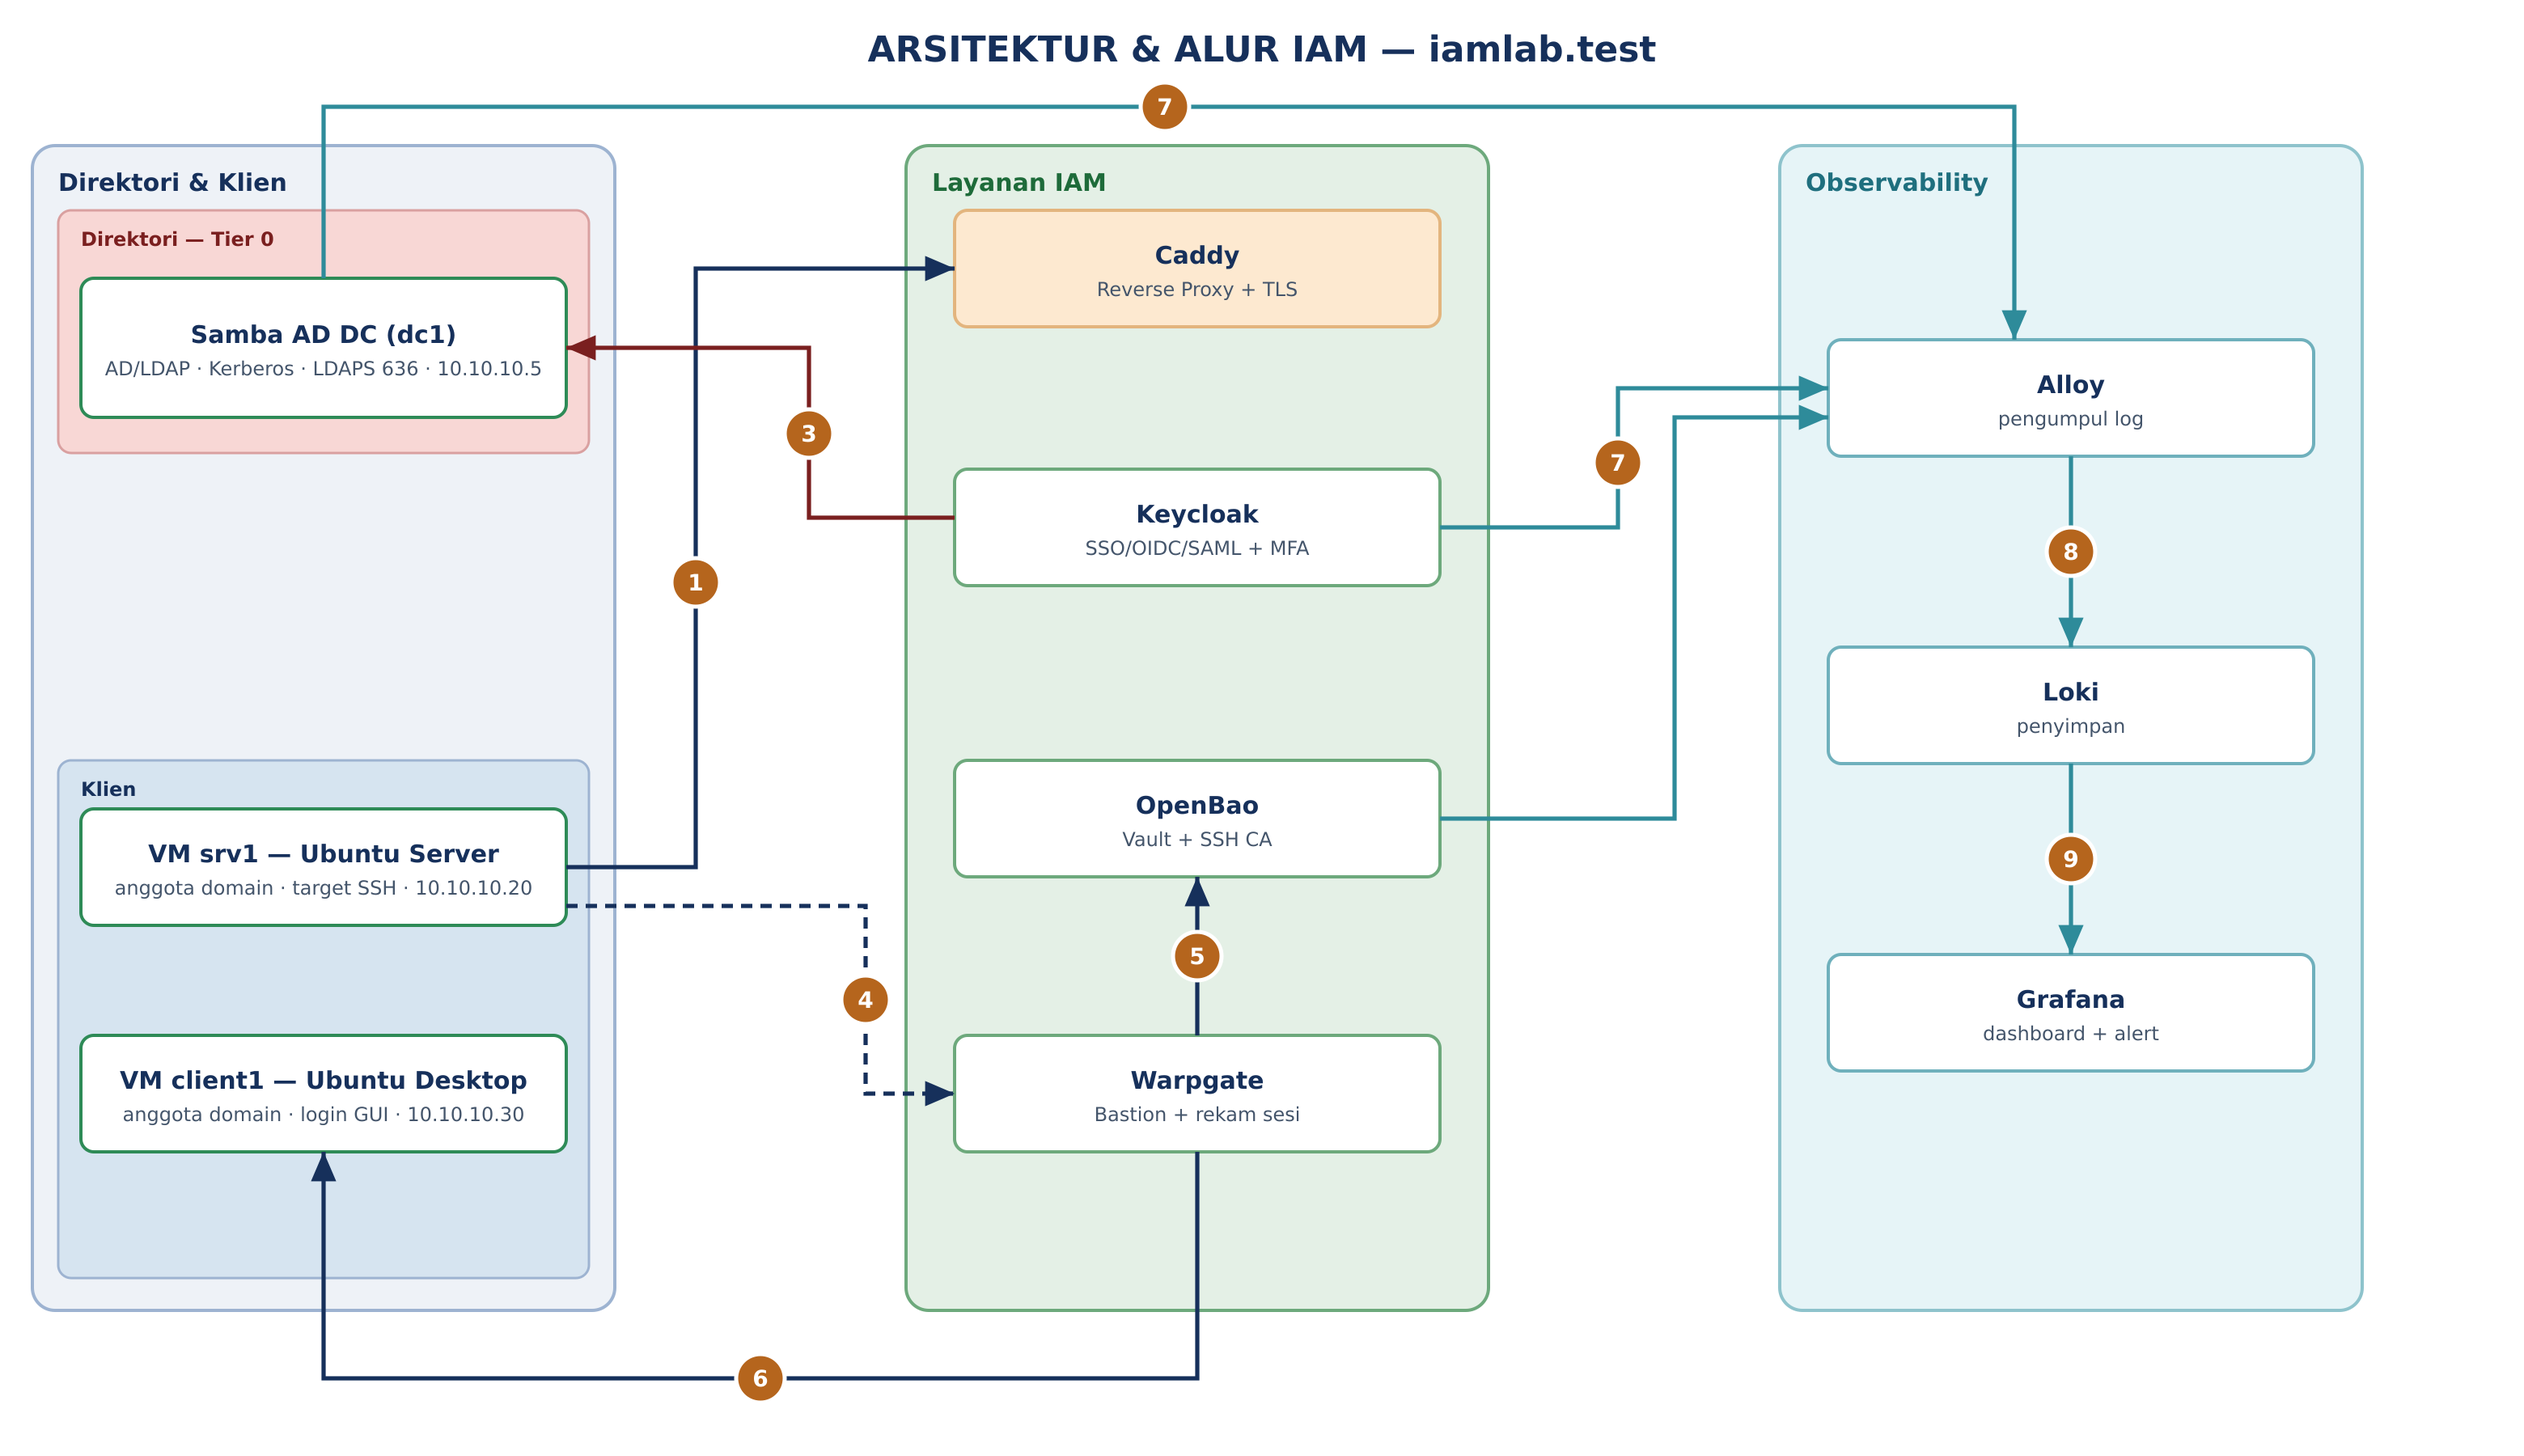
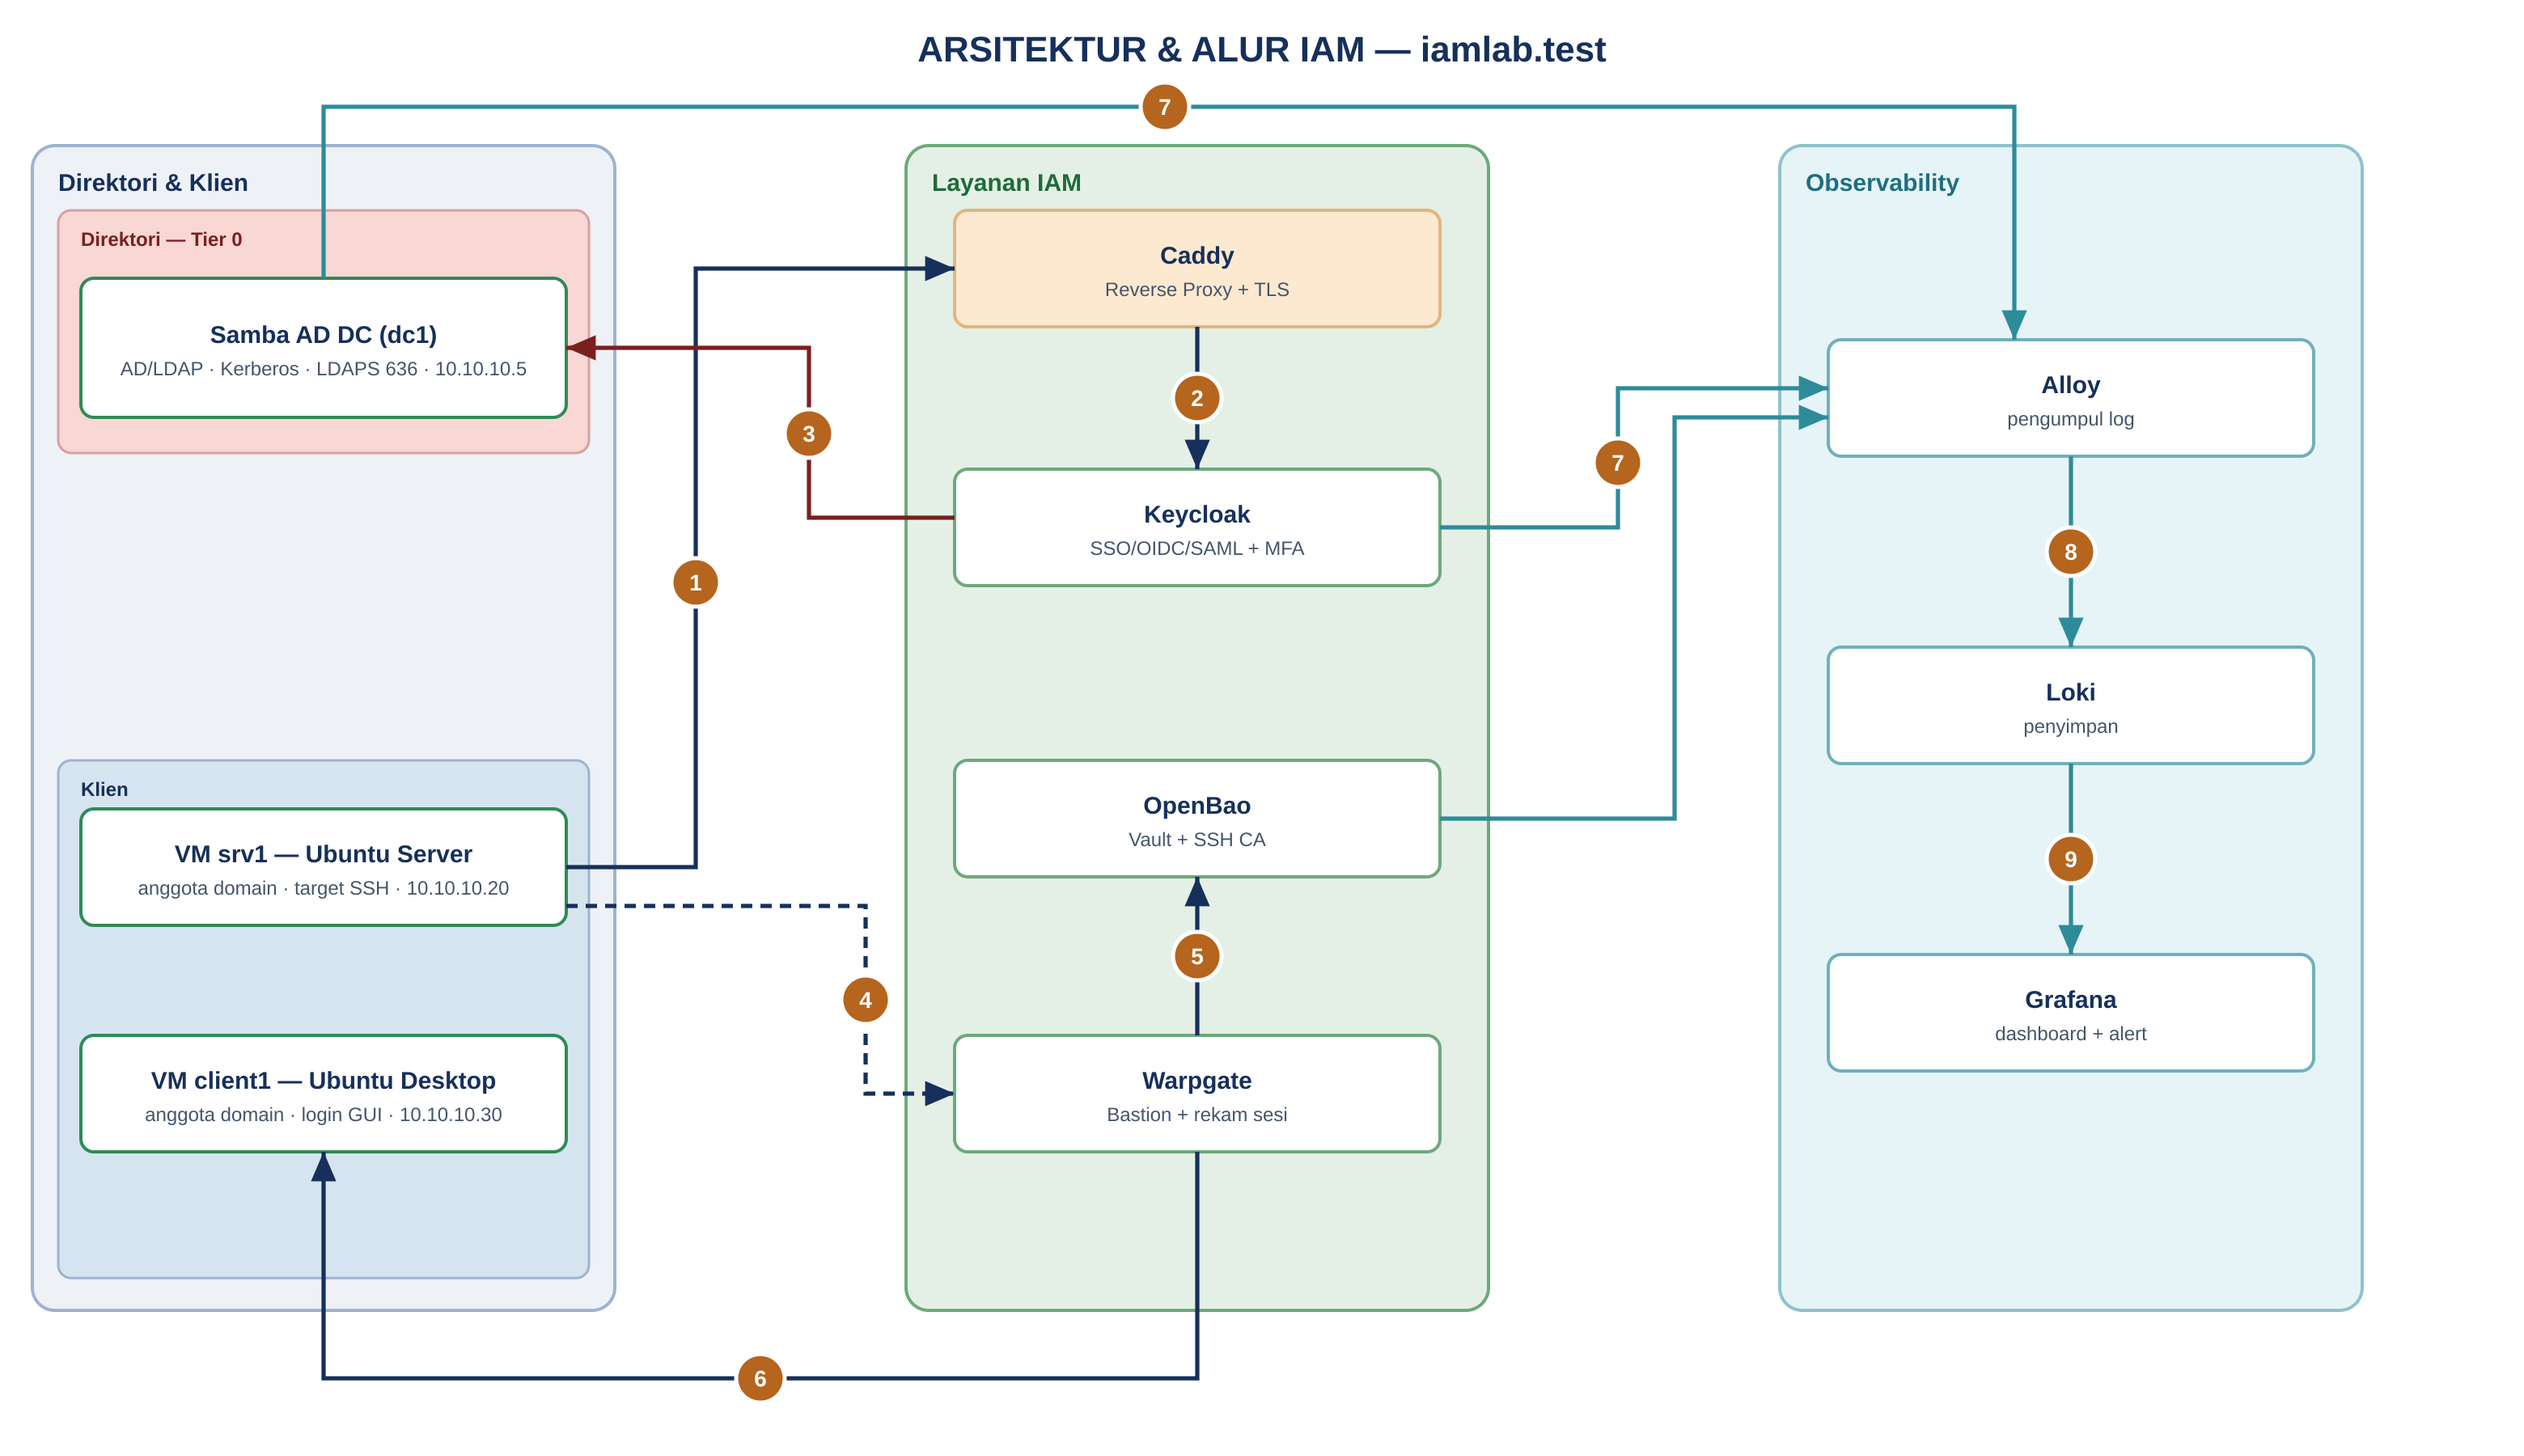
Sesi 0: glosarium singkatan + kredensial lab; perbaiki Gambar 1 (tambah alur 2 Caddy->Keycloak, tabel Agenda selaras badge)

diff --git a/sesi-0-pengantar/README.md b/sesi-0-pengantar/README.md
@@ -96,12 +96,16 @@ Aktivitas* di bawahnya.
 | **1** | Pengguna membuka aplikasi/konsol lewat HTTPS; TLS diterminasi reverse proxy | Klien Ubuntu → **Caddy** |
 | **2** | Proxy meneruskan permintaan login ke Identity Provider (SSO) | Caddy → **Keycloak** |
 | **3** | Keycloak memverifikasi kredensial & menarik atribut/grup lewat LDAPS 636 | Keycloak → **Samba AD DC (dc1)** |
-| **4** | Klien & server Ubuntu bergabung ke domain (Kerberos/LDAP) untuk login akun direktori | Ubuntu srv1/client1 → **dc1** |
-| **5** | Akses istimewa diarahkan ke bastion; login bastion memakai SSO Keycloak + MFA | Pengguna → **Warpgate** |
-| **6** | Bastion mengambil kredensial *break-glass* / meminta sertifikat SSH berumur pendek | Warpgate → **OpenBao (Vault/SSH CA)** |
-| **7** | Sesi SSH diteruskan ke target **dan direkam** | Warpgate → **srv1** |
-| **8** | Komponen & host mengirim event audit (login, akses vault, perintah user, skor CIS) | Keycloak/OpenBao/dc1/srv1/client1 → **Alloy** |
-| **9** | Log terstruktur disimpan lalu divisualkan (dashboard & alert, UBA) | Alloy → **Loki** → **Grafana** |
+| **4** | Akses istimewa diarahkan ke bastion; login bastion memakai SSO Keycloak + MFA | Klien Ubuntu ⇢ **Warpgate** |
+| **5** | Bastion mengambil kredensial *break-glass* / meminta sertifikat SSH berumur pendek | Warpgate → **OpenBao (Vault/SSH CA)** |
+| **6** | Sesi SSH diteruskan ke VM target **dan direkam** | Warpgate → **VM Ubuntu (srv1/client1)** |
+| **7** | Komponen & host mengirim event audit (login, akses vault, perintah, skor CIS) | Keycloak/OpenBao/dc1 → **Alloy** |
+| **8** | Log terstruktur disimpan | Alloy → **Loki** |
+| **9** | Divisualkan: dashboard & alert, **UBA** | Loki → **Grafana** |
+
+> Nomor pada tabel cocok dengan badge di Gambar 1. Selain alur di atas, **VM `srv1`/`client1`
+> bergabung ke domain** `dc1` (Kerberos/LDAP) di **Sesi 1** — ini mendasari login akun direktori
+> di endpoint, dijelaskan penuh di sesi tersebut (bukan bagian alur layanan bernomor ini).
 
 Secara **jaringan/penempatan**, blok-blok tersebut berjalan sebagai berikut:
 
@@ -134,6 +138,103 @@ termasuk login & perintah di VM Ubuntu — mengalir sebagai log ke **Alloy → L
 > direktori + layanan — muat di satu PC 16 GB tanpa lisensi Windows Server. Konsep AD/LDAP,
 > *tiering*, dan kebijakan akses terpusat identik; yang berbeda hanya perkakas administrasinya
 > (`samba-tool` dan kebijakan sisi klien Linux, bukan GPMC).
+
+## Daftar Istilah & Singkatan
+
+Rujukan cepat singkatan yang dipakai berulang di seluruh modul.
+
+**Identitas & direktori**
+
+| Singkatan | Kepanjangan | Arti ringkas |
+|-----------|-------------|--------------|
+| IAM | Identity & Access Management | Manajemen identitas & akses |
+| IAAA | Identification, Authentication, Authorization, Accounting/Audit | Empat pilar kontrol identitas |
+| AD | Active Directory | Direktori + control plane identitas (di lab: **Samba AD**) |
+| DC | Domain Controller | Server pengendali domain (`dc1`) |
+| LDAP | Lightweight Directory Access Protocol | Protokol akses direktori (port 389) |
+| LDAPS | LDAP over TLS | LDAP terenkripsi (port 636) |
+| OU | Organizational Unit | Unit/wadah objek di direktori |
+| DN | Distinguished Name | Nama unik objek (mis. `CN=svc-keycloak,OU=AkunLayanan,…`) |
+| DNS | Domain Name System | Resolusi nama → alamat |
+| KDC | Key Distribution Center | Penerbit tiket Kerberos di DC |
+| SPN | Service Principal Name | Nama layanan ber-Kerberos pada akun layanan |
+| GPO | Group Policy Object | Kebijakan terpusat (padanan Linux: sssd + CIS) |
+| PSO | Password Settings Object | Kebijakan sandi khusus per grup |
+
+**SSO, token & MFA**
+
+| Singkatan | Kepanjangan | Arti ringkas |
+|-----------|-------------|--------------|
+| IdP | Identity Provider | Gerbang SSO (di lab: **Keycloak**) |
+| SP / RP | Service Provider / Relying Party | Aplikasi yang memercayai IdP |
+| SSO | Single Sign-On | Satu kali login untuk banyak aplikasi |
+| MFA | Multi-Factor Authentication | Autentikasi >1 faktor |
+| OTP / TOTP | One-Time Password / Time-based OTP | Kode sekali pakai (RFC 6238, Google Authenticator) |
+| SAML | Security Assertion Markup Language | Federasi berbasis XML Assertion |
+| OAuth 2.0 | Open Authorization | Kerangka otorisasi akses sumber daya |
+| OIDC | OpenID Connect | Lapisan identitas di atas OAuth 2.0 |
+| JWT | JSON Web Token | Format token (ID Token OIDC) |
+| PKCE | Proof Key for Code Exchange | Pengaman alur Authorization Code |
+| RBAC | Role-Based Access Control | Hak akses berbasis peran/grup |
+| AAL | Authenticator Assurance Level | Tingkat jaminan autentikasi (NIST SP 800-63B) |
+
+**PAM & kriptografi**
+
+| Singkatan | Kepanjangan | Arti ringkas |
+|-----------|-------------|--------------|
+| PAM | Privileged Access Management | Pengelolaan akses istimewa (OpenBao + Warpgate) |
+| CA | Certificate Authority | Penerbit sertifikat |
+| SSH CA | SSH Certificate Authority | Penandatangan sertifikat SSH berumur pendek (OpenBao) |
+| KV | Key-Value | Mesin rahasia OpenBao (brankas) |
+| TLS | Transport Layer Security | Enkripsi transport (HTTPS/LDAPS) |
+| AES / RC4 | Advanced Encryption Standard / Rivest Cipher 4 | Enctype Kerberos: AES (kuat) vs RC4 (lemah) |
+| NTLM | NT LAN Manager | Protokol autentikasi lama (dibatasi `ntlmv2-only`) |
+
+**Audit, kepatuhan & infrastruktur**
+
+| Singkatan | Kepanjangan | Arti ringkas |
+|-----------|-------------|--------------|
+| UBA | User Behavior Analytics | Deteksi perilaku tak lazim |
+| CIS | Center for Internet Security | Benchmark pengerasan (via OpenSCAP) |
+| SCAP | Security Content Automation Protocol | Standar isi audit kepatuhan |
+| LogQL | Log Query Language | Bahasa kueri log Loki |
+| NIST | National Institute of Standards and Technology | Rujukan standar (SP 800-53/63/92) |
+| SPBE / BSSN | Sistem Pemerintahan Berbasis Elektronik / Badan Siber dan Sandi Negara | Konteks kepatuhan audit di Indonesia |
+| VM / VDI | Virtual Machine / Virtual Disk Image | Mesin & disk virtual (VirtualBox) |
+| WSL | Windows Subsystem for Linux | Backend Docker Desktop |
+| GUI / CLI | Graphical / Command-Line Interface | Antarmuka grafis / baris perintah |
+| SMTP | Simple Mail Transfer Protocol | Pengiriman email (ke Mailpit) |
+
+## Kredensial Lab (sintetis)
+
+> ⚠ **Semua kredensial di bawah HANYA untuk lab terisolasi & sintetis.** Jangan dipakai di
+> produksi; ganti di `deploy/.env` dan saat *setup* untuk lingkungan nyata.
+
+**Sistem & konsol**
+
+| Sistem | Akses | Username | Password | Catatan |
+|--------|-------|----------|----------|---------|
+| Domain AD (Samba `dc1`) | `samba-tool` (🐳) | `Administrator` | `Passw0rd#Lab2026` | admin domain `iamlab.test` |
+| VM `srv1` & `client1` (akun lokal) | SSH/konsol (🖥) | `labadmin` | `Lab#Admin2026` | admin lokal VM |
+| Keycloak (konsol admin) | `https://kc.iamlab.test` | `admin` | `ChangeMe_Admin#2026` | dari `deploy/.env` |
+| Grafana | `https://grafana.iamlab.test` | `admin` | `ChangeMe_Grafana#2026` | dari `deploy/.env` |
+| Warpgate (bastion) | `https://pam.iamlab.test` | `admin` | `Warp#Lab2026` | diset saat `unattended-setup` (Sesi 3) |
+| Mailpit | `https://mail.iamlab.test` | — | *(tanpa autentikasi)* | kotak surat uji |
+| OpenBao | CLI `docker compose exec openbao bao` | *(root token)* | dibuat saat `operator init` | + 3 *unseal key* (2 utk buka); tak ada login statis |
+| PostgreSQL (internal Keycloak) | tak diekspos | `keycloak` | `ChangeMe_KcDb#2026` | hanya antar-container |
+
+**Akun direktori & layanan (dibuat di Sesi 1)**
+
+| Akun | Password | Peran |
+|------|----------|-------|
+| `svc-keycloak` | `Svc#Lab2026!` → direset `Svc#Lab2026baru` | *Bind credential* federasi LDAP Keycloak |
+| `svc-openbao` | `Svc#Lab2026!` | *Bind* auth LDAP OpenBao |
+| `svc-app`, `svc-honey` | `Svc#Lab2026!` | Akun layanan ber-SPN (AES-only) |
+| `adm-t1-anda` | `Adm1#Lab2026` | Admin Tier 1 (login OpenBao via LDAP) |
+| *break-glass* `srv1` (di OpenBao KV) | `labadmin` / `BreakGlass#2026` | kredensial darurat, teraudit |
+| Pengguna direktori (*bulk import*) | **sandi awal acak** | dikirim ke **Mailpit**; wajib ganti saat login pertama |
+
+> MFA (Sesi 2): butuh **Google Authenticator / FreeOTP** di ponsel untuk akun yang ditarget OTP.
 
 ## Peta Sesi
 
